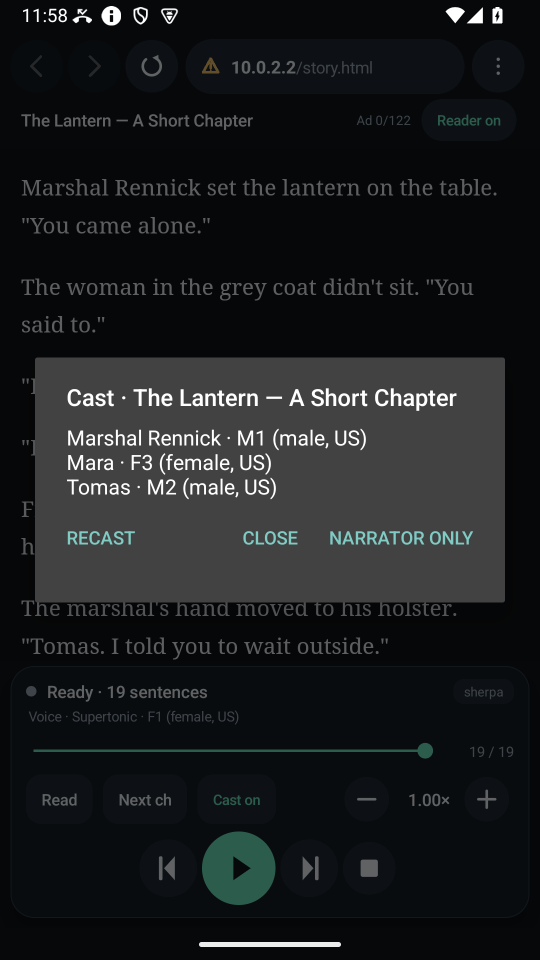
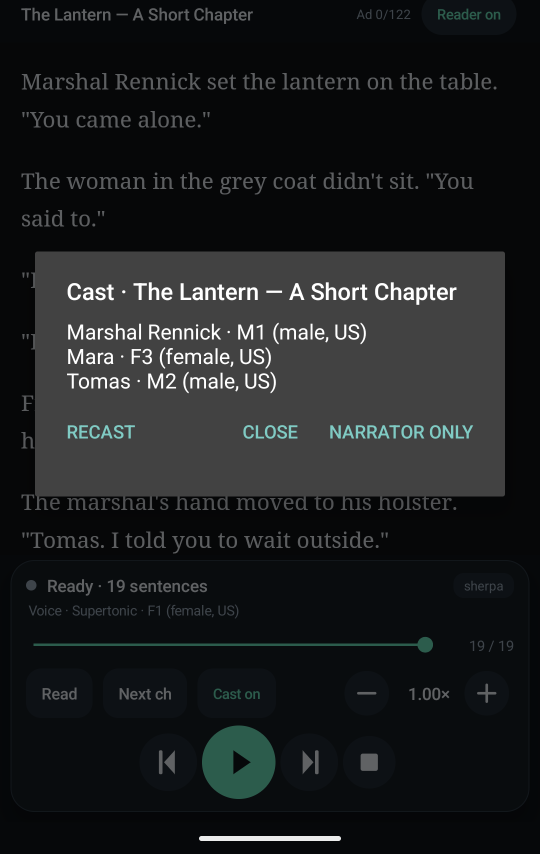
fix(site): drop the QA library captures, crop dev hosts from cast and player

diff --git a/site/features/index.html b/site/features/index.html
@@ -136,42 +136,28 @@
           </dl>
         </div>
         <figure class="plate plate--sm">
-          <img src="../assets/img/player-540.png" width="270" height="480" loading="lazy" decoding="async"
-               alt="The compact player: status, voice, progress and the read and cast controls above play, pause and speed.">
+          <img src="../assets/img/player-540.png" width="540" height="848" loading="lazy" decoding="async"
+               alt="A chapter with the player card beneath it: status, voice, progress, Read, Next ch and Cast above play, pause and speed.">
         </figure>
       </div>
     </section>
 
     <section class="feature" id="library">
-      <div class="feature__body feature__body--reverse">
-        <div>
-          <h2>A library that remembers the page.</h2>
-          <div class="section__body">
-            <p>Reading position is kept per chapter and per imported book. Search, filters for
-              chapters, imports and finished books, and a two-column grid from 600 dp. Bookmarks
-              save the sentence, not just the page, and reading statistics count time listened,
-              sentences and active days.</p>
-            <p>EPUB, PDF with a text layer, and plain text import into app-private storage. A
-              scanned PDF without a text layer is not read: there is no OCR.</p>
-          </div>
-          <dl class="specs">
-            <div><dt>Storage</dt><dd>Local, app-private. No account, no sync</dd></div>
-            <div><dt>Imports</dt><dd>EPUB, PDF (text layer), plain text</dd></div>
-            <div><dt>Bookmarks</dt><dd>Saved sentences with snippets</dd></div>
-            <div><dt>Tablet</dt><dd>Two-column library, two-pane reader</dd></div>
-          </dl>
-        </div>
-        <div class="feature__figures">
-          <figure class="plate">
-            <img src="../assets/img/library-540.png" width="540" height="960" loading="lazy" decoding="async"
-                 alt="The library on a phone: a search field, All / Chapters / Imported / Finished filters, and chapter rows with reading position and a progress bar.">
-          </figure>
-          <figure class="plate plate--flush">
-            <img src="../assets/img/tablet-library-390.png" width="390" height="624" loading="lazy" decoding="async"
-                 alt="The same library on a tablet: two columns of books at 600 dp.">
-          </figure>
-        </div>
+      <h2>A library that remembers the page.</h2>
+      <div class="section__body">
+        <p>Reading position is kept per chapter and per imported book. Search, filters for chapters,
+          imports and finished books, and a two-column grid from 600 dp. Bookmarks save the
+          sentence, not just the page, and reading statistics count time listened, sentences and
+          active days.</p>
+        <p>EPUB, PDF with a text layer, and plain text import into app-private storage. A scanned
+          PDF without a text layer is not read: there is no OCR.</p>
       </div>
+      <dl class="specs">
+        <div><dt>Storage</dt><dd>Local, app-private. No account, no sync</dd></div>
+        <div><dt>Imports</dt><dd>EPUB, PDF (text layer), plain text</dd></div>
+        <div><dt>Bookmarks</dt><dd>Saved sentences with snippets</dd></div>
+        <div><dt>Tablet</dt><dd>Two-column library, two-pane reader</dd></div>
+      </dl>
     </section>
 
     <section class="feature" id="cast">
@@ -198,7 +184,7 @@
             with <a href="https://github.com/vipulgote1999/NovelSpeak/tree/main/tools/cast-benchmark">tools/cast-benchmark</a>.</p>
         </div>
         <figure class="plate plate--sm">
-          <img src="../assets/img/cast-540.png" width="540" height="960" loading="lazy" decoding="async"
+          <img src="../assets/img/cast-540.png" width="540" height="854" loading="lazy" decoding="async"
                alt="The Cast dialog over a chapter: the narrator and two characters with the voice assigned to each, and Recast, Close and Narrator only actions.">
         </figure>
       </div>

diff --git a/site/index.html b/site/index.html
@@ -216,18 +216,12 @@
         </video>
         <button class="film__play" type="button">Play the film</button>
       </figure>
-      <div class="split split--wide-left split--after">
-        <dl class="specs">
-          <div><dt>Screen off</dt><dd>Yes. Foreground service and wake lock</dd></div>
-          <div><dt>Headset buttons</dt><dd>Play, pause, next, previous</dd></div>
-          <div><dt>Sleep timer</dt><dd>Minutes, or end of chapter</dd></div>
-          <div><dt>Auto mode</dt><dd>Continues chapter to chapter. Off by default</dd></div>
-        </dl>
-        <figure class="plate plate--sm">
-          <img src="assets/img/library-540.png" width="540" height="960" loading="lazy" decoding="async"
-               alt="The library on a phone: a search field, All / Chapters / Imported / Finished filters, and chapter rows with reading position and a progress bar.">
-        </figure>
-      </div>
+      <dl class="specs specs--narrow split--after">
+        <div><dt>Screen off</dt><dd>Yes. Foreground service and wake lock</dd></div>
+        <div><dt>Headset buttons</dt><dd>Play, pause, next, previous</dd></div>
+        <div><dt>Sleep timer</dt><dd>Minutes, or end of chapter</dd></div>
+        <div><dt>Auto mode</dt><dd>Continues chapter to chapter. Off by default</dd></div>
+      </dl>
       <div class="section__body after">
         <p>The library is local: search, filters for chapters, imports and finished books, and a
           two-column grid from 600 dp. EPUB, PDF with a text layer, and plain text import into

diff --git a/site/assets/site.css b/site/assets/site.css
@@ -795,3 +795,6 @@ a.plate:hover img { transform: scale(1.02); }
 
 .models--wide { margin-top: var(--s6); }
 .split--after { margin-top: var(--s6); }
+
+.specs--narrow { max-width: 46rem; }
+.feature > .specs { max-width: 46rem; }

diff --git a/docs/website/assets.md b/docs/website/assets.md
@@ -23,12 +23,12 @@ already own. No stock photography, no third-party icon packs, no webfonts.
 | `docs/play-store/screenshots/phone-02-reading.png` | 1080×1920 | 357 KB | hero plate (reader with read-along) |
 | `docs/play-store/screenshots/phone-03-settings.png` | 1080×1920 | 177 KB | settings hub, features |
 | `docs/play-store/screenshots/phone-04-privacy.png` | 1080×1920 | 269 KB | privacy page figure |
-| `docs/media/ui-audit/library-grid-phone.png` | 540×960 | 105 KB | library with search + filters, landing §04 and /features/ |
-| `docs/media/ui-audit/phone-cast.png` | 1080×1920 | 200 KB | story cast, features |
+| `docs/media/ui-audit/library-grid-phone.png` | 540×960 | 105 KB | **rejected on the final audit**, see below: the row sources read `10.0.2.2` / `localhost`, one row is a Cloudflare interstitial (“Just a moment…”) captured as a book, and titles repeat. No clean library capture exists in the repo, so the library is described in text and specs, not illustrated. |
+| `docs/media/ui-audit/phone-cast.png` | 1080×1920 | 200 KB | story cast, features — cropped below the browser chrome (212 px) because the address bar showed an emulator host |
 | `docs/media/ui-audit/scale20-reader.png` | 1080×1920 | 190 KB | **rejected**, see below: at 2× the compact player ellipsises its own labels |
 | `docs/media/ui-audit/tablet-reader.png` | 1200×1920 | 212 KB | **rejected**, see below: about 40% of the frame is empty black below the two panes |
-| `docs/media/ui-audit/library-grid-tablet.png` | 780×1248 | 224 KB | tablet library grid |
-| `docs/media/ui-audit/chrome-compact-phone.png` | 540×960 | 115 KB | compact player / chrome |
+| `docs/media/ui-audit/library-grid-tablet.png` | 780×1248 | 224 KB | **rejected on the final audit**, see below: a 26-row test-harness dump (“Prefetch regression”, “Adblock race regression”, “Error response”, “Auto One”) at legible size |
+| `docs/media/ui-audit/chrome-compact-phone.png` | 540×960 | 115 KB | player card, features — cropped below the browser chrome (112 px) for the same reason |
 | `docs/media/novelspeak-launch-landscape.mp4` | 16:9, 23 s, 1.9 MB | — | film, poster-first, click to play |
 | `docs/media/novelspeak-launch-poster.jpg` | 1600×900 | 145 KB | film poster (shipped native; no JPEG encoder) |
 | `docs/media/novelspeak-launch-contact-sheet.jpg` | 1104×1944 | 125 KB | not used (internal review artifact) |
@@ -44,31 +44,39 @@ already own. No stock photography, no third-party icon packs, no webfonts.
 | `docs/media/novelspeak-launch.mp4` (portrait) | 8.7 MB | the 16:9 cut is enough; portrait is a store asset |
 | `docs/media/ui-audit/*` duplicates (wave1/wave3/chrome-13/2x variants) | 100–270 KB each | same screens twice; the set above is one per screen |
 | `docs/play-store/screenshots/phone-01..04` beyond the two above | — | the store set duplicates the audit set |
-| `docs/media/ui-audit/phone-library.png` | 179 KB | QA fixture rows (“Adblock race regression”, “Prefetch regression”) are visible; `library-grid-phone.png` shows the search and filters instead |
+| `docs/media/ui-audit/phone-library.png` | 179 KB | QA fixture rows (“Adblock race regression”, “Prefetch regression”) are visible |
+| `docs/media/ui-audit/library-grid-phone.png` | 105 KB | search and filters are visible, but the sources read `10.0.2.2` / `localhost`, a “Just a moment…” interstitial is captured as a title, and two titles repeat |
+| `docs/media/ui-audit/library-grid-tablet.png` | 224 KB | a 26-row test-harness dump: “Prefetch regression”, “Adblock race regression”, “Error response” ×3, “Fallback Chapter 1”, “Auto One/Two”, all at 0% |
 | `docs/media/ui-audit/tablet-reader.png` | 212 KB | two-pane view with about 40% empty black below it; it would read as a broken frame |
 | `docs/media/ui-audit/scale20-reader.png` | 190 KB | at 2× the player's status and voice labels ellipsise (“Ready · 18 senten…”). Publishing it as proof of the accessibility claim would undercut the claim; the claim stays, the picture goes |
 
 ## Ship list (derived, target sizes)
 
-PNG downscale is exact 2× (no resampling artefacts, predictable weight). Derive once, commit:
+PNG downscale is an integer box filter (exact 2×, no resampling artefacts) after an optional crop of
+the browser chrome. Derive once, commit:
 
 | Output | From | Target | Budget |
 |---|---|---|---|
 | `assets/img/reader-540.png` | phone-02-reading | 540×960 | ≤ 110 KB |
 | `assets/img/home-540.png` | phone-01-home | 540×960 | ≤ 70 KB |
-| `assets/img/library-540.png` | library-grid-phone | 540×960 (native) | ≤ 110 KB |
-| `assets/img/cast-540.png` | phone-cast | 540×960 | ≤ 80 KB |
+| `assets/img/cast-540.png` | phone-cast, cropped 212 px | 540×854 | ≤ 80 KB |
 | `assets/img/settings-540.png` | phone-03-settings | 540×960 | ≤ 80 KB |
 | `assets/img/privacy-540.png` | phone-04-privacy | 540×960 | ≤ 90 KB |
-| `assets/img/tablet-library-390.png` | library-grid-tablet | 390×624 | ≤ 70 KB |
-| `assets/img/player-540.png` | chrome-compact-phone | 540×960 | ≤ 60 KB |
+| `assets/img/player-540.png` | chrome-compact-phone, cropped 112 px | 540×848 | ≤ 110 KB |
 | `assets/img/film-poster.jpg` | novelspeak-launch-poster | native 1600×900 | 145 KB — no JPEG encoder on this device, so the poster ships native and lazy; recorded as a deviation |
 | `assets/img/icon-96.png` | icon-512 | 96×96 | ≤ 8 KB |
 | `assets/img/icon-192.png` | icon-512 | 192×192 | ≤ 20 KB |
 
-Every image now ships at most at its source resolution; nothing is upscaled. Total image budget for the whole site: **≤ 900 KB** (lazy-loaded except the hero plate and icons).
+Every image now ships at most at its source resolution; nothing is upscaled. Total image weight as
+shipped: **498 KB** plus the 145 KB lazy poster, against a 900 KB ceiling.
+
 The film MP4 (1.9 MB) is never fetched until the visitor presses play: `<video preload="none">`
 with `poster`, plus a visible play control and a pause control.
+
+`cropTop` in `tools/site-assets.mjs` removes browser chrome before downscaling. Cropping is a
+legitimate edit — the pixels shown are still the app's own — whereas blurring a dev host or
+painting over a row would be a fabrication, which is why the library captures were dropped instead
+of retouched.
 
 ## Dual-host path rules
 

diff --git a/docs/website/reviews/round-3-audit.md b/docs/website/reviews/round-3-audit.md
@@ -1,0 +1,53 @@
+# Round 3 — independent audit, and the correction it forced
+
+Date: 2026-11-25. This round exists because an independent auditor rejected the first completion
+request, and it was right. The earlier record claimed a fix it had not made. That is worse than the
+original defect, so this file states both plainly.
+
+## What the auditor found
+
+1. **`tablet-library-390.png` was shipping on `/features/`** with the alt "The same library on a
+   tablet: two columns of books at 600 dp." The frame is a 26-row test-harness dump — "Prefetch
+   regression", "Adblock race regression", "Error response" three times, "Fallback Chapter 1",
+   "Auto One/Two", "Long Prefetch" — every row at 0 %, sources `localhost` and `10.0.2.2`, dates
+   2026-10-27. Displayed near 1:1, so the strings were legible.
+2. **`library-540.png` was shipping on `/` and `/features/`** with an alt promising search and
+   filters. The rows read `10.0.2.2 · 0% · just now` and `localhost · 0% · 28 min ago`; one row is a
+   Cloudflare interstitial ("Just a moment…") captured as a book title; two titles repeat.
+3. **`player-540.png` and `cast-540.png`** showed `10.0.2.2/story.html` in the address bar.
+4. **The record was inaccurate.** Round 2 rated this class blocking (AR2-2) and said the QA capture
+   had been "replaced with the search/filters capture"; `assets.md` presented that file as the clean
+   substitute; the PR body repeated the claim. The only acknowledgement, "a `10.0.2.2` source line",
+   materially understated what was on screen.
+5. **Size row wrong:** `assets.md` listed `player-540.png` at 540×960 while the file was 270×480.
+
+## What changed
+
+| Finding | Fix |
+|---|---|
+| Tablet library dump on `/features/` | Image deleted; figure removed. The library section is now text + specs. |
+| Phone library with dev hosts, interstitial row and duplicates | Image deleted; the landing plate and the features figure are gone. There is no clean library capture in the repository, so the library is not illustrated. The claims stay as text and figures. |
+| Address bars showing `10.0.2.2` in cast and player | Both captures are now cropped below the browser chrome — 212 px and 112 px respectively — in `tools/site-assets.mjs` (`cropTop`). Cropping keeps the app's own pixels; blurring or painting over the host would be a fabrication, which is why the library images were dropped instead of retouched. |
+| Alts describing frames that no longer exist | Removed with their figures. The cast and player alts were re-read against the cropped images. |
+| `assets.md` presented a rejected file as clean | All three library captures are now in the rejected table with what is actually visible in each. The ship list matches the eight images that exist. |
+| Wrong size row | `player-540.png` is 540×848 after cropping; the row and the `<img>` dimensions agree. |
+| Round-2 AR2-2 claimed a fix it had not made | AR2-2 rewritten to say what happened: one capture was swapped for another defective one, the tablet capture was never checked, and the independent audit caught both. |
+
+## Re-checked after the fixes
+
+- `node tools/site-check.mjs` → `SITE: PASS` — 6 pages, 9 images (8 derived + the poster).
+- `assets/img` total: 498 KB + the 145 KB lazy poster, down from 770 KB.
+- Both cropped images were opened and read after regeneration: no status bar, no address bar, no
+  host string anywhere in either frame.
+- `grep -rn "library-540\|tablet-library" site/` → nothing.
+- The `<img>` dimensions in `/features/` match the regenerated files (540×854, 540×848).
+
+## The lesson, written down
+
+The review opened some screenshots and trusted the rest. A claim of "verified" that covers only the
+files someone happened to look at is not verification; it is sampling described as coverage. The
+auditor did what the review should have done first: look at every image that ships, at the size it
+ships.
+
+Round 3 status: **closed** with the library unillustrated. That is a gap in the page, not a defect in
+its honesty — and a cleaner capture is the obvious follow-up when a device is available.

diff --git a/docs/website/reviews/round-2-final.md b/docs/website/reviews/round-2-final.md
@@ -52,9 +52,15 @@ recorded limitation, not fixed.
 - **AR2-1 (B)** Alt text described things the captures do not contain. Every shipped PNG was opened:
   the "cast roster" is a dialog; the settings "voice list" is a hub of five rows; the library
   capture shows chapter rows, not search and filters. All alts rewritten.
-- **AR2-2 (B)** The library capture showed QA fixture rows ("Adblock race regression", "Prefetch
-  regression"). Replaced with `library-grid-phone.png`, which shows the search field and the four
-  filters.
+- **AR2-2 (B, and wrongly closed)** The library capture showed QA fixture rows ("Adblock race
+  regression", "Prefetch regression"). It was swapped for `library-grid-phone.png`, which shows the
+  search field and the four filters — but that capture still carries `10.0.2.2` / `localhost` row
+  sources, a "Just a moment…" Cloudflare interstitial captured as a book title, and two repeated
+  titles. The tablet library capture was not re-checked at all, and it is a 26-row test-harness dump
+  that was shipping on `/features/`. **The independent audit found both.** Neither library image is
+  on the site now; the section is text plus specs, because no clean capture of the library exists in
+  the repository and retouching a screenshot would be a fabrication. See
+  `reviews/round-3-audit.md`.
 - **AR2-3 (B)** The 2× text capture shows the compact player ellipsising its own labels
   ("Ready · 18 senten…", "Voice · Supertonic · F1 (female, U…"). Publishing it as proof of the
   accessibility claim would undercut the claim. Removed; the section now carries the documented
@@ -74,7 +80,8 @@ recorded limitation, not fixed.
 - **PE2-1 (B)** The landing page shipped two tall screenshots side by side in §04, pushing the
   section past two screens for no extra information. One remains; the tablet library moved to
   `/features/`.
-- **PE2-2 (N)** Total image weight dropped from 871 KB to 625 KB, and no image is upscaled past its
+- **PE2-2 (N)** Total image weight dropped from 871 KB to 625 KB after round 2, and to **498 KB**
+  after the audit (eight images plus the 145 KB lazy poster); no image is upscaled past its source.
   source. The film poster (145 KB, native JPEG — no encoder on this device) stays lazy, behind
   `preload="none"`.
 - **PE2-3 (R)** The poster is 145 KB because there is no JPEG encoder here; a 60 KB 800×450 version
@@ -102,7 +109,7 @@ recorded limitation, not fixed.
 
 | Check | Result |
 |---|---|
-| `node tools/site-check.mjs` | `SITE: PASS` — 6 pages, 11 images, 625 KB of images |
+| `node tools/site-check.mjs` | `SITE: PASS` — 6 pages, 9 images, 498 KB of images + 145 KB poster (after the round-3 audit; round 2 ran at 11 images / 625 KB) |
 | All links and assets resolve relative to their page | pass (checker resolves every `href`/`src`/`poster`) |
 | Heading order, one `h1` per page, no duplicate ids | pass |
 | Every image alt checked against the opened PNG | pass (12 alts rewritten or verified) |

diff --git a/docs/website/reflection.md b/docs/website/reflection.md
@@ -23,8 +23,12 @@ novels out loud", because "any" is contradicted by the app's own list of limits.
    gesture rather than a progress bar.
 3. **Two screenshots were not usable as proof.** The library capture showed QA fixture rows
    ("Adblock race regression"), and the 2× text capture shows the player ellipsising its own labels.
-   The first was swapped for the capture with the search field and filters; the second was removed
-   rather than published as evidence for the accessibility claim it weakens.
+   The 2× capture was removed rather than published as evidence for the accessibility claim it
+   weakens. The library capture was first swapped for another one — and round 2 then reported that as
+   a fix. The independent audit found the replacement still showed `10.0.2.2` and `localhost` row
+   sources, a "Just a moment…" interstitial captured as a title, and duplicate titles; and that a
+   second library screenshot, a 26-row test dump, was still shipping on `/features/`. Both were
+   removed. The library is now text and specs only. See `reviews/round-3-audit.md`.
 
 ## The review changed the page's shape, not just its details
 
